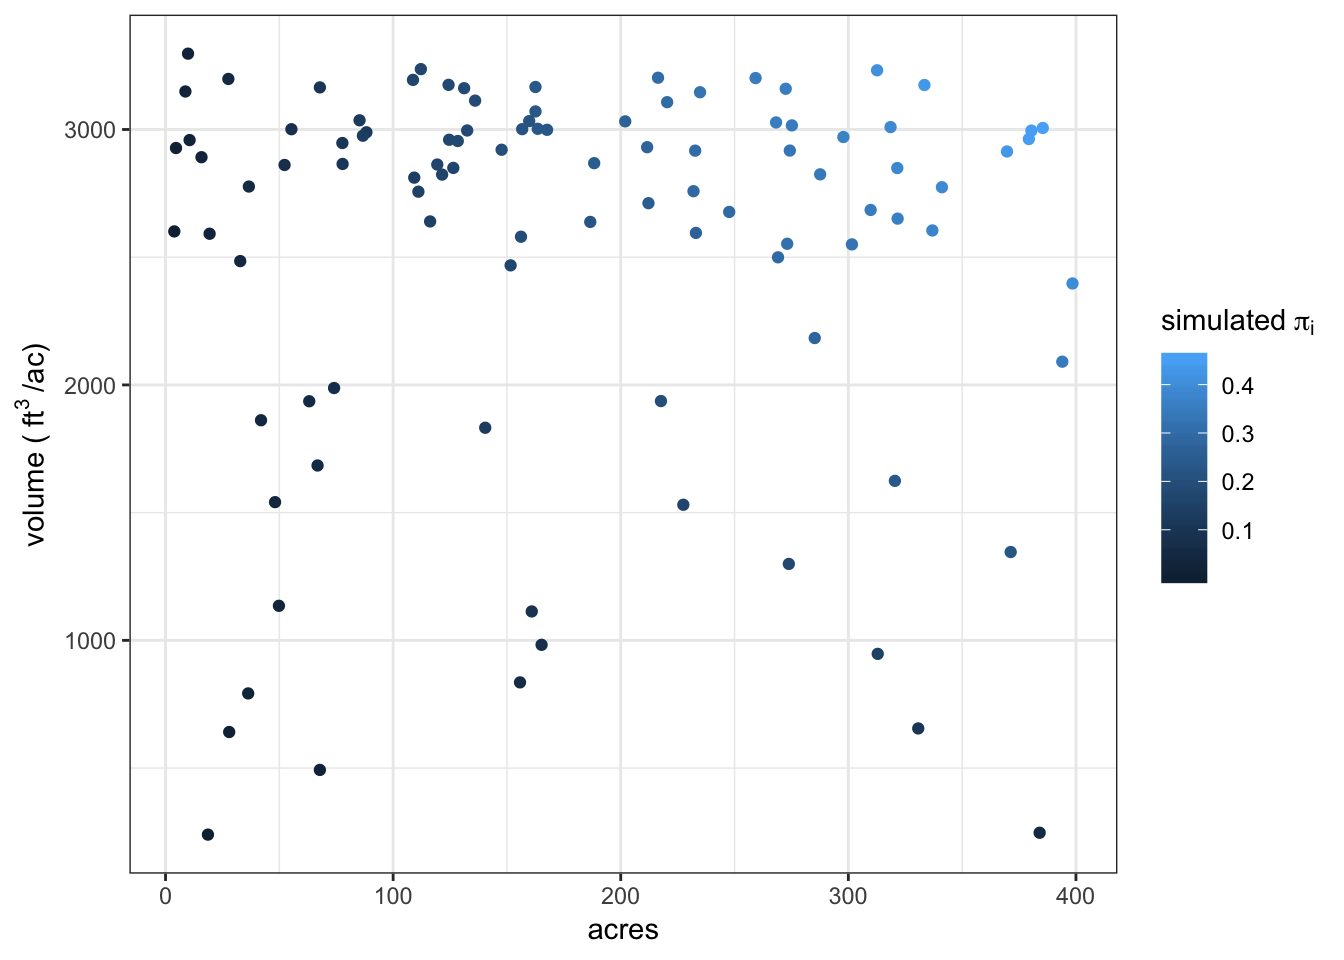
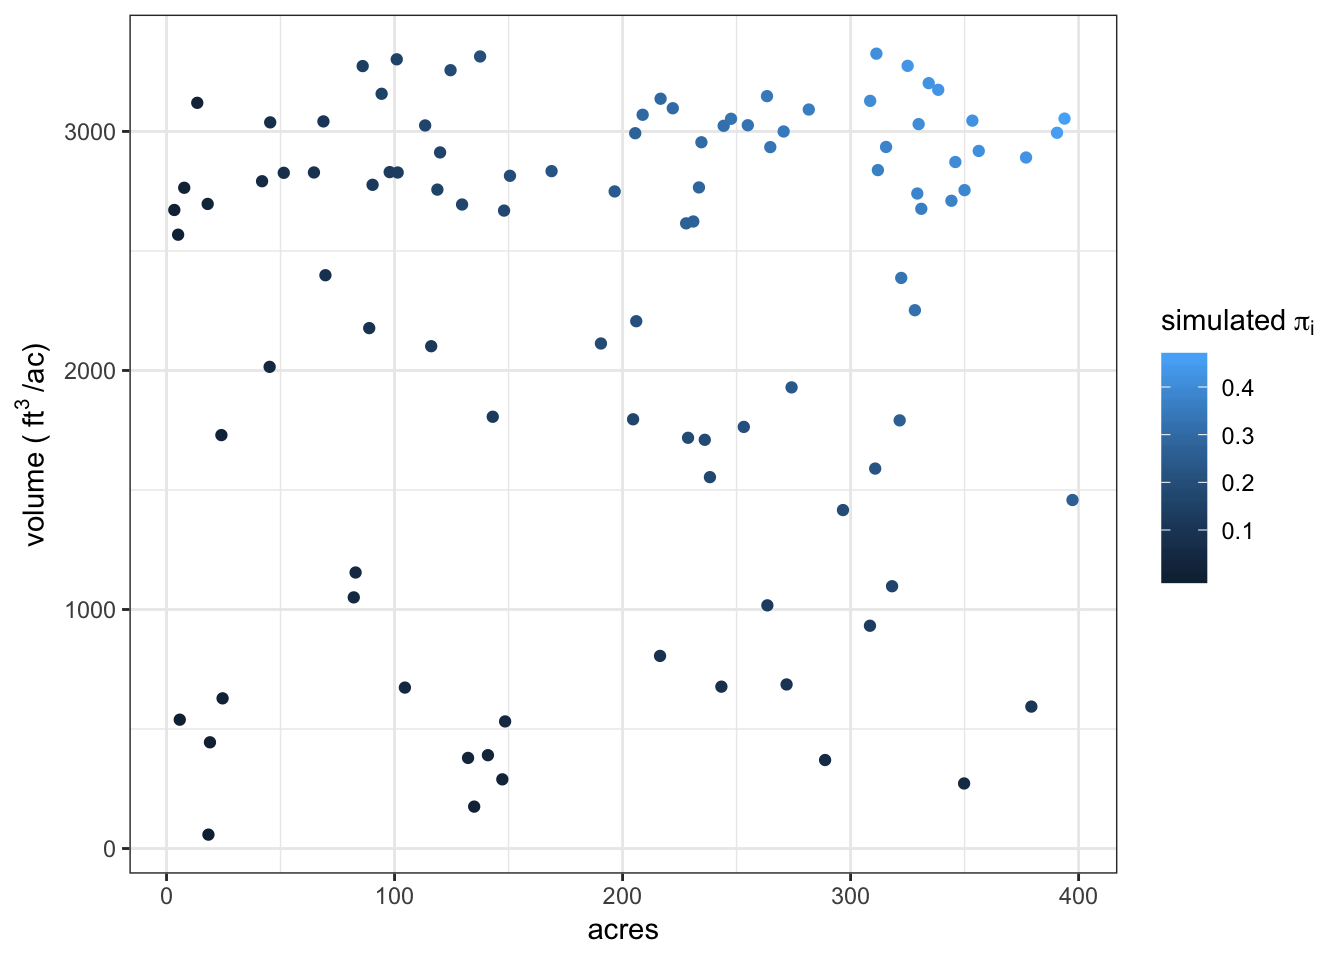
fix pi typo

diff --git a/content/post/2019-02-04-horvitz_thompson.html b/content/post/2019-02-04-horvitz_thompson.html
@@ -58,7 +58,7 @@ stands %&gt;%
   geom_point() +
   ylab(bquote(&quot;volume (&quot; ~ ft^{3} ~ &quot;/ac)&quot;)) +
   labs(caption = &quot;volume over age for the forest&quot;)</code></pre>
-<p><img src="/post/2019-02-04-horvitz_thompson_files/figure-html/data-1.png" width="672" /> The true population mean stocking is 2523 cubic feet per acre, the population total is 4.54931310^{7} cubic feet!</p>
+<p><img src="/post/2019-02-04-horvitz_thompson_files/figure-html/data-1.png" width="672" /> The true population mean stocking is 2299 cubic feet per acre, the population total is 4.60468410^{7} cubic feet!</p>
 </div>
 <div id="designing-a-sample" class="section level2">
 <h2>Designing a sample</h2>
@@ -110,8 +110,8 @@ sampleSim20 %&gt;%
   ylim(0, 1.1 * max(sampleSim20$pi_i_sim)) +
   xlab(bquote(&quot;approximate&quot; ~ pi[i])) +
   ylab(bquote(&quot;simulated&quot; ~ pi[i]))</code></pre>
-<p><img src="/post/2019-02-04-horvitz_thompson_files/figure-html/sampleSimulation-1.png" width="672" /> As you can see, there are subtle differences between the approximate <span class="math inline">\(pi_{i}\)</span> values and the <span class="math inline">\(pi_{i}\)</span> values generated from 10,000 simulated samples. We will use the simulated values for the rest of the analysis.</p>
-<p>By plotting <span class="math inline">\(pi_{i}\)</span> in volume and stand acreage space we can see that large stands with high volume stocking have the highest probability of inclusion in a sample of 20 stands.</p>
+<p><img src="/post/2019-02-04-horvitz_thompson_files/figure-html/sampleSimulation-1.png" width="672" /> As you can see, there are subtle differences between the approximate <span class="math inline">\(\pi_{i}\)</span> values and the <span class="math inline">\(\pi_{i}\)</span> values generated from 10,000 simulated samples. We will use the simulated values for the rest of the analysis.</p>
+<p>By plotting <span class="math inline">\(\pi_{i}\)</span> in volume and stand acreage space we can see that large stands with high volume stocking have the highest probability of inclusion in a sample of 20 stands.</p>
 <pre class="r"><code>sampleSim20 %&gt;%
   left_join(stands) %&gt;%
   ggplot(
@@ -414,49 +414,49 @@ pander::pander(
 <tr class="odd">
 <td align="center">estimate</td>
 <td align="center">10</td>
-<td align="center">2534</td>
-<td align="center">431.5</td>
+<td align="center">2307</td>
+<td align="center">391.9</td>
 <td align="center">1</td>
 </tr>
 <tr class="even">
 <td align="center">estimate</td>
 <td align="center">20</td>
-<td align="center">2520</td>
-<td align="center">230.9</td>
-<td align="center">0.99</td>
+<td align="center">2292</td>
+<td align="center">212.3</td>
+<td align="center">0.98</td>
 </tr>
 <tr class="odd">
 <td align="center">estimate</td>
 <td align="center">30</td>
-<td align="center">2527</td>
-<td align="center">188.9</td>
-<td align="center">1</td>
+<td align="center">2286</td>
+<td align="center">174.8</td>
+<td align="center">0.99</td>
 </tr>
 <tr class="even">
 <td align="center">estimate</td>
 <td align="center">40</td>
-<td align="center">2533</td>
-<td align="center">166.4</td>
+<td align="center">2295</td>
+<td align="center">154.2</td>
 <td align="center">0.99</td>
 </tr>
 <tr class="odd">
 <td align="center">estimate</td>
 <td align="center">50</td>
-<td align="center">2531</td>
-<td align="center">143.8</td>
-<td align="center">0.97</td>
+<td align="center">2298</td>
+<td align="center">131.9</td>
+<td align="center">0.99</td>
 </tr>
 <tr class="even">
 <td align="center">estimate</td>
 <td align="center">60</td>
-<td align="center">2528</td>
-<td align="center">118.9</td>
-<td align="center">0.97</td>
+<td align="center">2290</td>
+<td align="center">107</td>
+<td align="center">0.93</td>
 </tr>
 <tr class="odd">
 <td align="center"><strong>truth</strong></td>
 <td align="center"><strong>-</strong></td>
-<td align="center"><strong>2523</strong></td>
+<td align="center"><strong>2299</strong></td>
 <td align="center"><strong>-</strong></td>
 <td align="center"><strong>-</strong></td>
 </tr>
